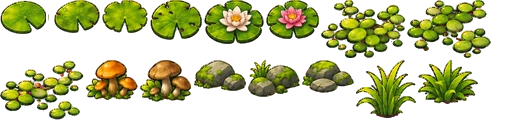
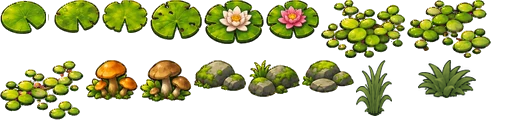
Swamp2: replace lime tufts 02/04 with muted TASK-001 v3 recolours
Claude-Session: https://claude.ai/code/session_013R86rVRDV7uvtfdFLL6VJw

Changed region(s): [[0.6875, 0.5, 0.9375, 1.0]]

diff --git a/sw.js b/sw.js
@@ -1,6 +1,6 @@
-/* «Две базы» offline cache, version 2026.11.08-1209. A new version of this file makes phones fetch the new game;
+/* «Две базы» offline cache, version 2026.11.08-1321. A new version of this file makes phones fetch the new game;
    files whose content didn't change are copied from the old cache instead of downloaded again. */
-const V='dvebazy-2026.11.08-1209',H={"base_blue.webp": "3fa30d2184", "base_red.webp": "7dbdedfcd1", "crater.webp": "f8f526da4a", "crystal.webp": "3a4d69ffd7", "crystal_empty.webp": "e0bfd176b7", "desert.mp3": "4e820be7a4", "field_empty.webp": "1a89de323f", "field_full.webp": "5ce65390f6", "forest.mp3": "4d73b83bec", "hq_blue.webp": "9fd8e7e807", "hq_red.webp": "971d8873b5", "hv_e_blue.webp": "0fb54e58f2", "hv_e_red.webp": "dadb0cb8e0", "hv_f_blue.webp": "0eaca5d65e", "hv_f_red.webp": "1a6f973922", "intro.mp3": "d06e8482e9", "lost.mp3": "640926f4fa", "nuke.webp": "3bd289d94c", "ref_blue.webp": "55d23168b2", "ref_red.webp": "3c357584ff", "rocket.webp": "071c1a603f", "titan.mp3": "74a7fba796", "titan_hull_blue.webp": "b95fc02d02", "titan_hull_red.webp": "bc3479a55e", "titan_tur_blue.webp": "3a694cdb51", "titan_tur_red.webp": "4c836f3f95", "tw_can_blue.webp": "39c2cdb5df", "tw_can_red.webp": "11768d7b6d", "tw_mg_blue.webp": "f2a7462850", "tw_mg_red.webp": "b13edf318a", "tw_rkt_blue.webp": "890841b140", "tw_rkt_red.webp": "1cd20dd65c", "tw_tes_blue.webp": "f8dbac1346", "tw_tes_red.webp": "35dace5877", "victory.mp3": "86da21c965", "wave.webp": "02e3191a09", "winter.mp3": "c049c90e71", "voice_balist1.mp3": "a809bffd15", "voice_batk1.mp3": "bc1cce2b93", "voice_bomb1.mp3": "3e85b9b9dc", "voice_first1.mp3": "5d89f62894", "voice_first2.mp3": "6f591c10d3", "voice_first3.mp3": "de270f2917", "voice_first4.mp3": "52d929dd20", "voice_first5.mp3": "475b1aa197", "voice_first6.mp3": "d2ce90c984", "voice_first7.mp3": "222510fe73", "voice_hvdie1.mp3": "c1c6b9d714", "voice_loh1.mp3": "21e001d1e4", "voice_loh10.mp3": "41e66ff026", "voice_loh2.mp3": "e7da3dd047", "voice_loh3.mp3": "5cc145f5da", "voice_loh4.mp3": "58b7b9dbe7", "voice_loh5.mp3": "1426e425ce", "voice_loh6.mp3": "2053d0fb8a", "voice_loh7.mp3": "b546dc0fcb", "voice_loh8.mp3": "373d27d207", "voice_loh9.mp3": "ee76b7cbbf", "voice_lose1.mp3": "0965212c4d", "voice_lose2.mp3": "0272edf688", "voice_lose3.mp3": "fcb16aa0a5", "voice_lose4.mp3": "f4663fb4e3", "voice_lose5.mp3": "606ac4c1cf", "voice_lose6.mp3": "83a1fe1747", "voice_mazor1.mp3": "0a2f8341b5", "voice_mazor2.mp3": "2d0ef74267", "voice_mine2.mp3": "5ebf9d3ec6", "voice_mset1.mp3": "a35afbeb82", "voice_mvz1.mp3": "77e6ee09e0", "voice_mvz2.mp3": "fb090a12ca", "voice_nkb1.mp3": "52d38c9324", "voice_nkb2.mp3": "01c40b5760", "voice_nkb3.mp3": "39fe27bdf7", "voice_nkb4.mp3": "64aef97f88", "voice_nkb5.mp3": "4d31a020df", "voice_nkb6.mp3": "789a890588", "voice_nuke2.mp3": "8ca89b5589", "voice_ogon1.mp3": "c9d67acb12", "voice_orud1.mp3": "3026d1e2ee", "voice_rzap1.mp3": "2e0d131a35", "voice_vrag1.mp3": "028cb3b269", "voice_vrag2.mp3": "2e10b723e9", "voice_vrag3.mp3": "6079f5e810", "voice_vrag4.mp3": "8f7fa0ef37", "voice_vrag5.mp3": "e94b070c67", "voice_vrag6.mp3": "cb9915cce8", "voice_vrag7.mp3": "7ed2c5a974", "voice_vrag8.mp3": "48edfe60b2", "voice_vrag9.mp3": "8b0f4d86ee", "voice_win1.mp3": "f3f0a603b5", "voice_win2.mp3": "12950c5326", "voice_win3.mp3": "62d5e009ec", "voice_win4.mp3": "c6f262900b", "voice_win5.mp3": "63d2a5f9c8", "voice_bomb2.mp3": "2a7dccab6b", "voice_bomb3.mp3": "9939c42554", "voice_bomb4.mp3": "ae8e689c51", "voice_bomb5.mp3": "a8e38dbf99", "voice_bomb6.mp3": "5ad7691213", "voice_bomb7.mp3": "68265021c3", "voice_mset2.mp3": "e2e92e7433", "voice_mset3.mp3": "a9811a1536", "voice_mset4.mp3": "8173956a14", "voice_tout1.mp3": "e36d93eff4", "voice_tout2.mp3": "32e7428350", "voice_tout3.mp3": "9fca62bcdf", "voice_tout4.mp3": "3e314749bc", "voice_tout5.mp3": "5fcc940e4d", "voice_tout6.mp3": "fac430fb0f", "voice_tout7.mp3": "979fea3bea", "voice_tout8.mp3": "01a95c5d7b", "voice_tout9.mp3": "6bfcb1b4f9", "voice_etout1.mp3": "43c1b6aaf3", "voice_etout2.mp3": "bd5d728dc7", "voice_etout3.mp3": "9fd5dfc497", "voice_etout4.mp3": "781294a546", "voice_etout5.mp3": "d430e427bc", "voice_orud2.mp3": "aa9e1b81be", "voice_orud3.mp3": "705171a146", "voice_orud4.mp3": "238aca5997", "voice_orud5.mp3": "339952603c", "voice_tlow1.mp3": "785ec7eec0", "voice_tlow2.mp3": "96d601ac89", "voice_tlow3.mp3": "74a22eaaeb", "voice_tlow4.mp3": "fe8e1de87d", "voice_tlow5.mp3": "3cc923bbde", "voice_tlow6.mp3": "4c544afc32", "voice_tlow7.mp3": "32148d5608", "voice_tlow8.mp3": "aa26e23409", "voice_tlow9.mp3": "3085b4d856", "sw2_grass.webp": "e9c2de9e29", "sw2_mud.webp": "e61855352f", "sw2_water.webp": "98d60ba496", "sw2_atlas.webp": "427607d22b", "sw2_atlas2.webp": "118c88c7d9", "sw2_pads.webp": "ce7bd1a9a7", "manifest.webmanifest": "d76adf5df4", "icon-192.png": "3f01f503e0", "icon-512.png": "ea3305bba6", "icon-180.png": "5713f46e1f"};
+const V='dvebazy-2026.11.08-1321',H={"base_blue.webp": "3fa30d2184", "base_red.webp": "7dbdedfcd1", "crater.webp": "f8f526da4a", "crystal.webp": "3a4d69ffd7", "crystal_empty.webp": "e0bfd176b7", "desert.mp3": "4e820be7a4", "field_empty.webp": "1a89de323f", "field_full.webp": "5ce65390f6", "forest.mp3": "4d73b83bec", "hq_blue.webp": "9fd8e7e807", "hq_red.webp": "971d8873b5", "hv_e_blue.webp": "0fb54e58f2", "hv_e_red.webp": "dadb0cb8e0", "hv_f_blue.webp": "0eaca5d65e", "hv_f_red.webp": "1a6f973922", "intro.mp3": "d06e8482e9", "lost.mp3": "640926f4fa", "nuke.webp": "3bd289d94c", "ref_blue.webp": "55d23168b2", "ref_red.webp": "3c357584ff", "rocket.webp": "071c1a603f", "titan.mp3": "74a7fba796", "titan_hull_blue.webp": "b95fc02d02", "titan_hull_red.webp": "bc3479a55e", "titan_tur_blue.webp": "3a694cdb51", "titan_tur_red.webp": "4c836f3f95", "tw_can_blue.webp": "39c2cdb5df", "tw_can_red.webp": "11768d7b6d", "tw_mg_blue.webp": "f2a7462850", "tw_mg_red.webp": "b13edf318a", "tw_rkt_blue.webp": "890841b140", "tw_rkt_red.webp": "1cd20dd65c", "tw_tes_blue.webp": "f8dbac1346", "tw_tes_red.webp": "35dace5877", "victory.mp3": "86da21c965", "wave.webp": "02e3191a09", "winter.mp3": "c049c90e71", "voice_balist1.mp3": "a809bffd15", "voice_batk1.mp3": "bc1cce2b93", "voice_bomb1.mp3": "3e85b9b9dc", "voice_first1.mp3": "5d89f62894", "voice_first2.mp3": "6f591c10d3", "voice_first3.mp3": "de270f2917", "voice_first4.mp3": "52d929dd20", "voice_first5.mp3": "475b1aa197", "voice_first6.mp3": "d2ce90c984", "voice_first7.mp3": "222510fe73", "voice_hvdie1.mp3": "c1c6b9d714", "voice_loh1.mp3": "21e001d1e4", "voice_loh10.mp3": "41e66ff026", "voice_loh2.mp3": "e7da3dd047", "voice_loh3.mp3": "5cc145f5da", "voice_loh4.mp3": "58b7b9dbe7", "voice_loh5.mp3": "1426e425ce", "voice_loh6.mp3": "2053d0fb8a", "voice_loh7.mp3": "b546dc0fcb", "voice_loh8.mp3": "373d27d207", "voice_loh9.mp3": "ee76b7cbbf", "voice_lose1.mp3": "0965212c4d", "voice_lose2.mp3": "0272edf688", "voice_lose3.mp3": "fcb16aa0a5", "voice_lose4.mp3": "f4663fb4e3", "voice_lose5.mp3": "606ac4c1cf", "voice_lose6.mp3": "83a1fe1747", "voice_mazor1.mp3": "0a2f8341b5", "voice_mazor2.mp3": "2d0ef74267", "voice_mine2.mp3": "5ebf9d3ec6", "voice_mset1.mp3": "a35afbeb82", "voice_mvz1.mp3": "77e6ee09e0", "voice_mvz2.mp3": "fb090a12ca", "voice_nkb1.mp3": "52d38c9324", "voice_nkb2.mp3": "01c40b5760", "voice_nkb3.mp3": "39fe27bdf7", "voice_nkb4.mp3": "64aef97f88", "voice_nkb5.mp3": "4d31a020df", "voice_nkb6.mp3": "789a890588", "voice_nuke2.mp3": "8ca89b5589", "voice_ogon1.mp3": "c9d67acb12", "voice_orud1.mp3": "3026d1e2ee", "voice_rzap1.mp3": "2e0d131a35", "voice_vrag1.mp3": "028cb3b269", "voice_vrag2.mp3": "2e10b723e9", "voice_vrag3.mp3": "6079f5e810", "voice_vrag4.mp3": "8f7fa0ef37", "voice_vrag5.mp3": "e94b070c67", "voice_vrag6.mp3": "cb9915cce8", "voice_vrag7.mp3": "7ed2c5a974", "voice_vrag8.mp3": "48edfe60b2", "voice_vrag9.mp3": "8b0f4d86ee", "voice_win1.mp3": "f3f0a603b5", "voice_win2.mp3": "12950c5326", "voice_win3.mp3": "62d5e009ec", "voice_win4.mp3": "c6f262900b", "voice_win5.mp3": "63d2a5f9c8", "voice_bomb2.mp3": "2a7dccab6b", "voice_bomb3.mp3": "9939c42554", "voice_bomb4.mp3": "ae8e689c51", "voice_bomb5.mp3": "a8e38dbf99", "voice_bomb6.mp3": "5ad7691213", "voice_bomb7.mp3": "68265021c3", "voice_mset2.mp3": "e2e92e7433", "voice_mset3.mp3": "a9811a1536", "voice_mset4.mp3": "8173956a14", "voice_tout1.mp3": "e36d93eff4", "voice_tout2.mp3": "32e7428350", "voice_tout3.mp3": "9fca62bcdf", "voice_tout4.mp3": "3e314749bc", "voice_tout5.mp3": "5fcc940e4d", "voice_tout6.mp3": "fac430fb0f", "voice_tout7.mp3": "979fea3bea", "voice_tout8.mp3": "01a95c5d7b", "voice_tout9.mp3": "6bfcb1b4f9", "voice_etout1.mp3": "43c1b6aaf3", "voice_etout2.mp3": "bd5d728dc7", "voice_etout3.mp3": "9fd5dfc497", "voice_etout4.mp3": "781294a546", "voice_etout5.mp3": "d430e427bc", "voice_orud2.mp3": "aa9e1b81be", "voice_orud3.mp3": "705171a146", "voice_orud4.mp3": "238aca5997", "voice_orud5.mp3": "339952603c", "voice_tlow1.mp3": "785ec7eec0", "voice_tlow2.mp3": "96d601ac89", "voice_tlow3.mp3": "74a22eaaeb", "voice_tlow4.mp3": "fe8e1de87d", "voice_tlow5.mp3": "3cc923bbde", "voice_tlow6.mp3": "4c544afc32", "voice_tlow7.mp3": "32148d5608", "voice_tlow8.mp3": "aa26e23409", "voice_tlow9.mp3": "3085b4d856", "sw2_grass.webp": "e9c2de9e29", "sw2_mud.webp": "e61855352f", "sw2_water.webp": "98d60ba496", "sw2_atlas.webp": "427607d22b", "sw2_atlas2.webp": "8e1c286c2d", "sw2_pads.webp": "ce7bd1a9a7", "manifest.webmanifest": "d76adf5df4", "icon-192.png": "3f01f503e0", "icon-512.png": "ea3305bba6", "icon-180.png": "5713f46e1f"};
 self.addEventListener('install',e=>{self.skipWaiting();e.waitUntil((async()=>{const c=await caches.open(V);let oldH={},old=null;
  for(const k of await caches.keys()){if(k===V)continue;const o=await caches.open(k);const r=await o.match('__hashes');if(r){try{oldH=await r.json();old=o;}catch(_){}}}
  await Promise.all(Object.keys(H).map(async f=>{try{if(old&&oldH[f]===H[f]){const r=await old.match(f);if(r){await c.put(f,r);return;}}await c.add(new Request(f,{cache:'reload'}));}catch(_){}}));

diff --git a/index.html b/index.html
@@ -1249,8 +1249,8 @@ let GP=GPAL.grass;
 const SW2={grass:new Image(),mud:new Image(),water:new Image(),atlas:new Image(),atlas2:new Image(),pads:new Image(),
  /* TASK-001 v2 (accepted): stone pads 01-04 (102px squares) and low tuft_01 */
  C:{"pad_01":[0,0,102,102],"pad_02":[104,0,102,102],"pad_03":[208,0,102,102],"pad_04":[312,0,102,102],"tuft_01":[416,0,62,50]},
- /* second set (TASK-001 v1, accepted part): single lilies, flowers, duckweed, mushrooms, pebbles, low tufts */
- B:{"lily_single_01":[0,0,46,34],"lily_single_02":[48,0,52,33],"lily_single_03":[102,0,46,33],"lily_single_04":[150,0,52,40],"lily_flower_01":[204,0,60,44],"lily_flower_02":[266,0,53,39],"duckweed_01":[321,0,84,58],"duckweed_02":[407,0,84,58],"duckweed_03":[0,60,84,60],"mushrooms_01":[86,60,52,40],"mushrooms_02":[140,60,52,42],"pebbles_01":[194,60,52,31],"pebbles_02":[248,60,52,37],"pebbles_03":[302,60,52,33],"tuft_02":[356,60,60,58],"tuft_04":[418,60,60,44]},
+ /* second set (TASK-001 v1, accepted part): single lilies, flowers, duckweed, mushrooms, pebbles, low tufts; tuft_02/04 replaced by muted TASK-001 v3 recolours */
+ B:{"lily_single_01":[0,0,46,34],"lily_single_02":[48,0,52,33],"lily_single_03":[102,0,46,33],"lily_single_04":[150,0,52,40],"lily_flower_01":[204,0,60,44],"lily_flower_02":[266,0,53,39],"duckweed_01":[321,0,84,58],"duckweed_02":[407,0,84,58],"duckweed_03":[0,60,84,60],"mushrooms_01":[86,60,52,40],"mushrooms_02":[140,60,52,42],"pebbles_01":[194,60,52,31],"pebbles_02":[248,60,52,37],"pebbles_03":[302,60,52,33],"tuft_02":[356,60,36,56],"tuft_04":[418,60,58,38]},
  A:{"reed1":[0,0,98,85],"reed2":[100,0,87,83],"reed3":[189,0,89,86],"lily1":[280,0,108,49],"lily2":[390,0,107,62],"lily3":[499,0,105,59],"lily4":[606,0,95,70],"log1":[703,0,149,70],"log2":[854,0,116,69],"branch":[0,88,137,67],"root1":[139,88,134,78],"root2":[275,88,191,89],"stump1":[468,88,119,79],"stump2":[589,88,104,81],"stump3":[695,88,110,80],"rock1":[807,88,94,65],"rock2":[903,88,82,51],"rock3":[0,179,75,56],"rock4":[77,179,139,85],"grass1":[218,179,94,75],"grass2":[314,179,87,76],"grass3":[403,179,91,76],"fern":[496,179,99,72],"bush1":[597,179,88,68],"bush2":[687,179,83,70],"bush3":[772,179,80,72],"bush4":[854,179,101,73]}};
 for(const k of ['grass','mud','water','atlas','atlas2','pads']){SW2[k].onload=()=>{if(typeof MAP!=='undefined'&&MAP&&MAP.theme==='swamp2')bgCache=null;};SW2[k].src='sw2_'+k+'.webp';}
 const sw2Ready=()=>['grass','mud','water','atlas','atlas2','pads'].every(k=>SW2[k].complete&&SW2[k].naturalWidth>0);
@@ -2703,9 +2703,9 @@ window.__dbg={get W(){return W},simStep,doCmd,botThink,packSnap,onSnap,setCode:c
 requestAnimationFrame(frame);
 </script>
 
-<div id="appVer">v2026.11.08-1209</div>
+<div id="appVer">v2026.11.08-1321</div>
 <script>
-window.APP_VERSION='2026.11.08-1209';
+window.APP_VERSION='2026.11.08-1321';
 /* the version label only on the lobby screen */
 setInterval(()=>{const l=document.getElementById('lobby'),v=document.getElementById('appVer');if(l&&v)v.style.display=l.hidden?'none':'';},500);
 if('serviceWorker' in navigator){let reloaded=false;
